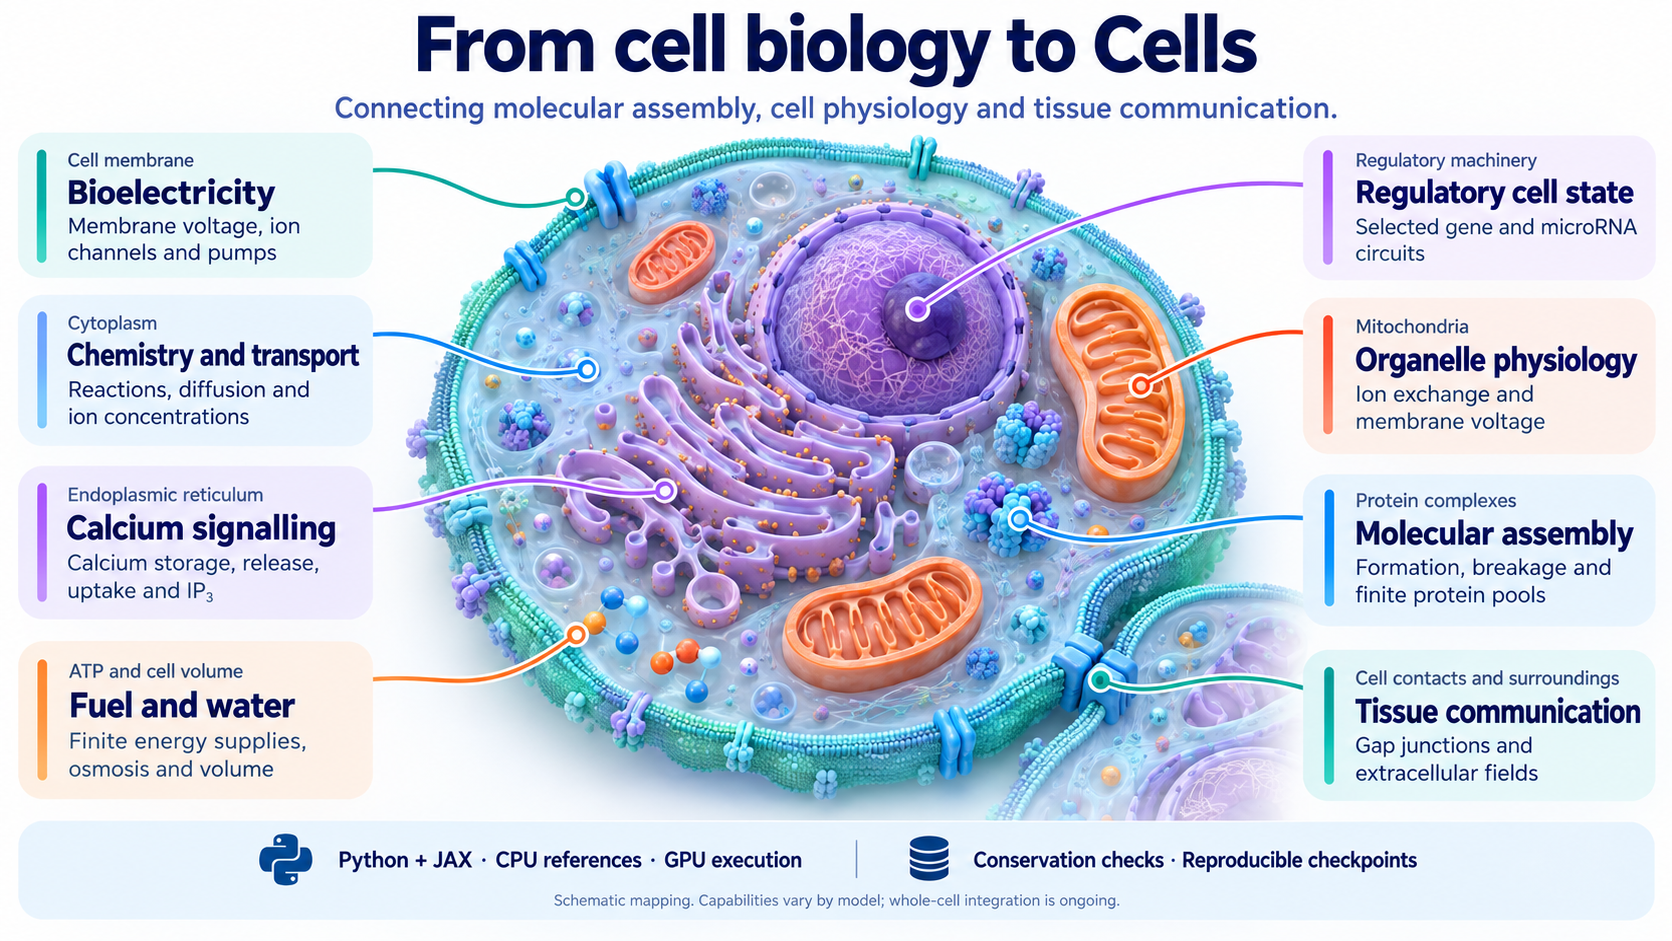
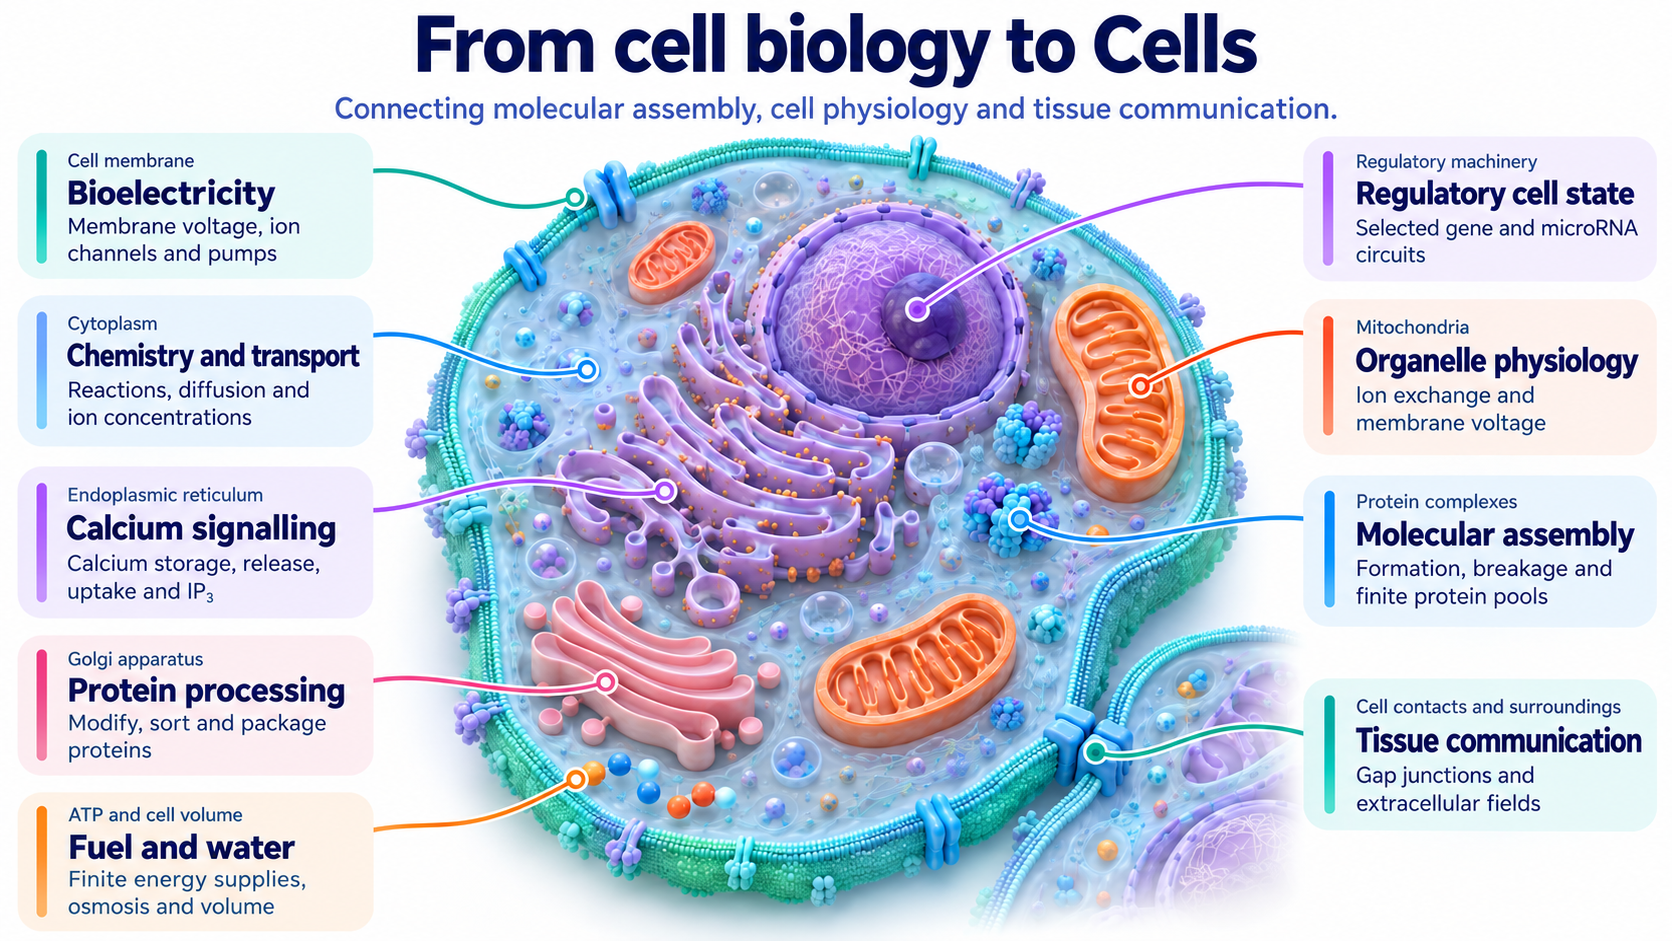
Updated

diff --git a/README.md b/README.md
@@ -10,9 +10,9 @@ so the same models compile for NVIDIA GPUs and for CPUs, and the CPU runs serve
 as independent references. [Progress](PROGRESS.md) holds the detailed current
 status and evidence.
 
-![A cutaway animal cell maps its membrane to bioelectricity, cytoplasm to chemistry and transport, ER to calcium signalling, mitochondria to organelle physiology, regulatory machinery to regulatory cell state, protein complexes to molecular assembly, ATP and volume to fuel and water, and cell contacts to tissue communication.](docs/assets/cells-biology-map.png)
+![A cutaway animal cell maps its membrane to bioelectricity, cytoplasm to chemistry and transport, ER to calcium signalling, Golgi apparatus to protein modification, sorting and packaging, mitochondria to organelle physiology, regulatory machinery to regulatory cell state, protein complexes to molecular assembly, ATP and volume to fuel and water, and cell contacts to tissue communication.](docs/assets/cells-biology-map.png)
 
-This schematic maps cell biology to selected Cells model capabilities;
+This schematic links cell structures and biological processes;
 whole-cell integration is ongoing.
 
 ## Why we are building Cells
